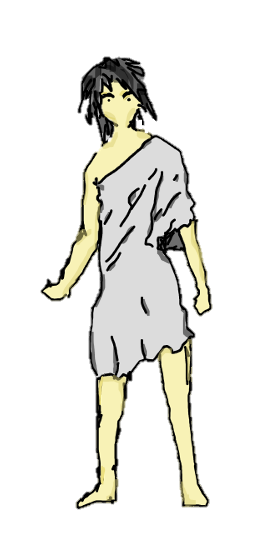
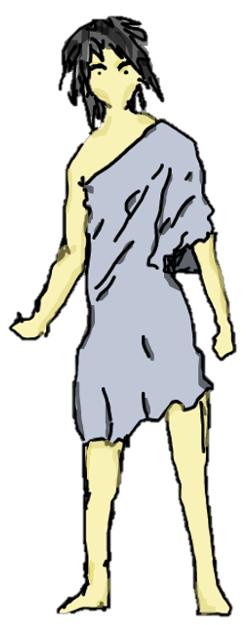
beginning to add  directional character sprites

diff --git a/src/components/PlayerAvatar.css b/src/components/PlayerAvatar.css
@@ -10,19 +10,12 @@
     top: 50%;
 }
 
-.interact {
-    background-image: url("../media/characterAvatar/characterFrontInteract.png");
-}
-
-.walking {
-    background-image: url("../media/characterAvatar/characterFrontWalking.gif");
-}
-
 .face-down {
     border-bottom-style: double;
 }
 
 .face-up {
+    background-image: url("../media/characterAvatar/characterBack.png");
     border-top-style: double;
 }
 
@@ -32,4 +25,20 @@
 
 .face-right {
     border-right-style: double;
+}
+
+.interact.face-down {
+    background-image: url("../media/characterAvatar/characterFrontInteract.png");
+}
+
+.walking.face-down {
+    background-image: url("../media/characterAvatar/characterFrontWalking.gif");
+}
+
+.interact.face-up {
+    background-image: url("../media/characterAvatar/characterBackInteract.png");
+}
+
+.walking.face-up {
+    background-image: url("../media/characterAvatar/characterBackWalking.gif");
 }
